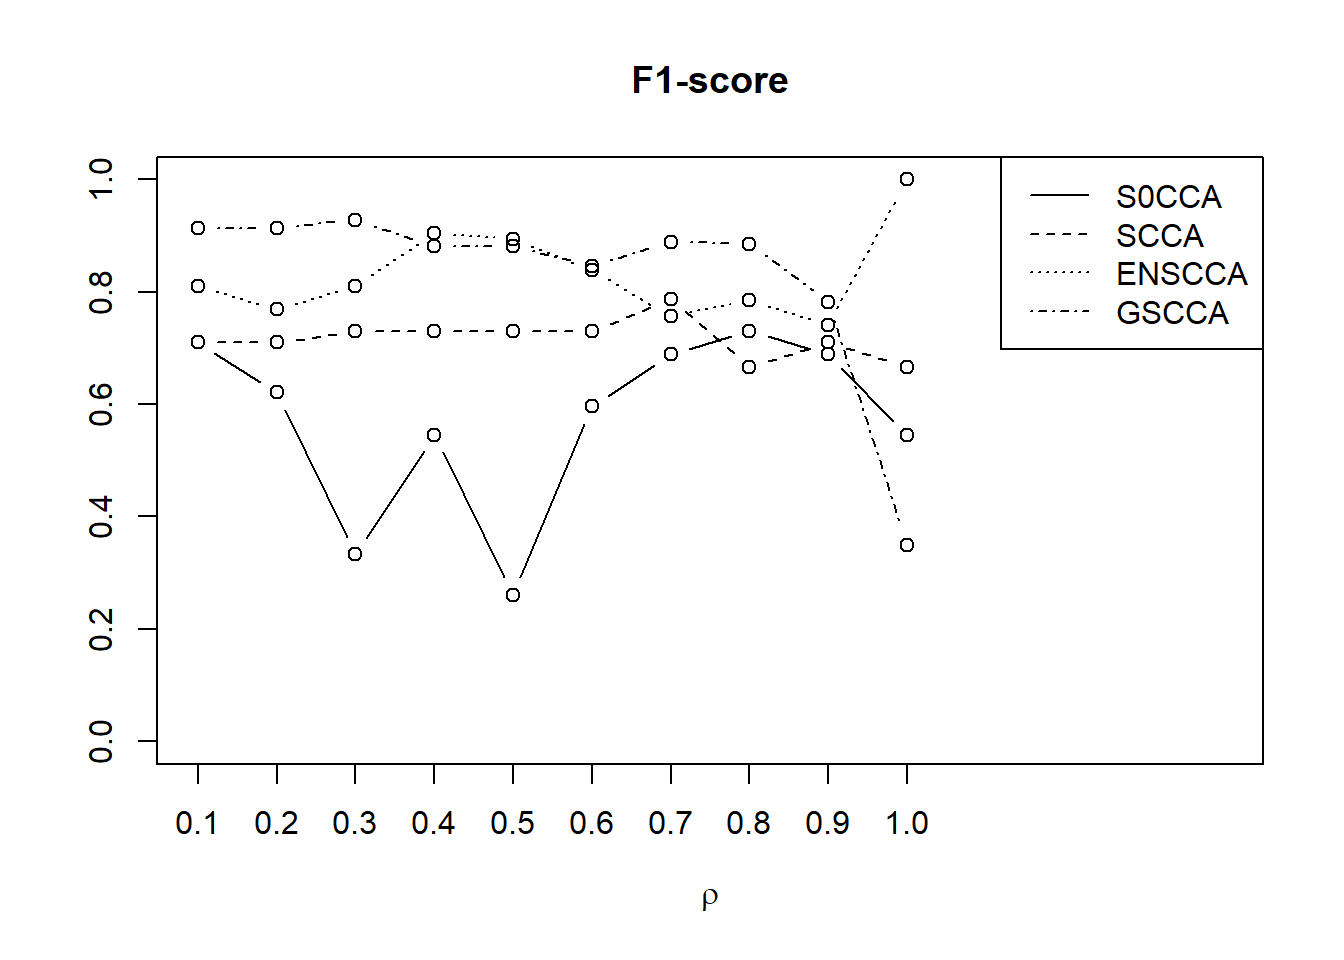
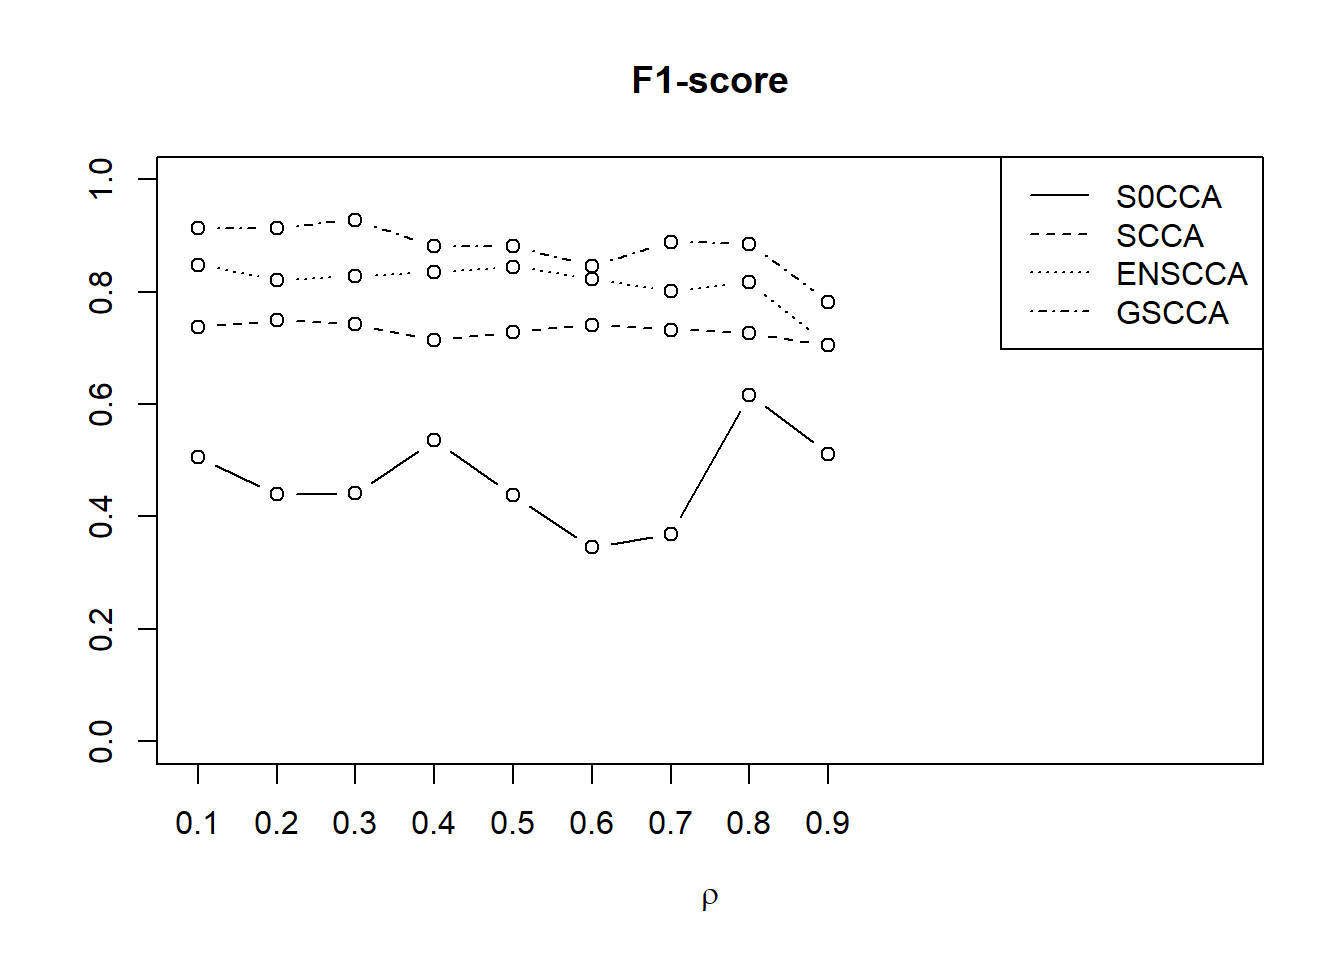
Build site.

diff --git a/docs/model3.html b/docs/model3.html
@@ -322,7 +322,7 @@ shared across the workflowr files. -->
 <p><strong>Last updated:</strong> 2017-12-29</p>
 <!-- Insert the code version (Git commit SHA1) if Git repository exists and R
  package git2r is installed -->
-<p><strong>Code version:</strong> 2881b68</p>
+<p><strong>Code version:</strong> 7d212ec</p>
 <!-- Add your analysis here -->
 <p>Model 3 examines the effect of auto-regressive correlation.</p>
 <pre class="r"><code>library(scca)
@@ -330,7 +330,7 @@ u=c(rep(1,10),rep(-1,10),rep(0,80))
 v=c(rep(c(1,0.2),5),rep(c(-1,-0.2),5),rep(0,80))
 edges=c(as.numeric(combn(1:10,2)),as.numeric(combn(11:20,2)),21:100)
 
-rholist=seq(0.1,1,length.out = 10)
+rholist=seq(0.1,0.9,length.out = 9)
 model3S0=c()
 model3S1=c()
 model3elnet=c()
@@ -338,9 +338,9 @@ model3gscca=c()
 for(rho in 1:length(rholist)){
   sigma_x=arcov(rholist[rho],100)
   sigma_y=sigma_x
-  model3S0=rbind(model3S0,finals(s0cca_simu(1,u,v,50,&#39;normal&#39;,1,sigma_x,sigma_y)))
-  model3S1=rbind(model3S1,finals(s1cca_simu(1,u,v,50,&#39;normal&#39;,1,sigma_x,sigma_y)))
-  model3elnet=rbind(model3elnet,finals(elnet.cca.simu(1,u,v,50,&#39;normal&#39;,1,sigma_x,sigma_y)))
+  model3S0=rbind(model3S0,finals(s0cca_simu(10,u,v,50,&#39;normal&#39;,1,sigma_x,sigma_y)))
+  model3S1=rbind(model3S1,finals(s1cca_simu(10,u,v,50,&#39;normal&#39;,1,sigma_x,sigma_y)))
+  model3elnet=rbind(model3elnet,finals(elnet.cca.simu(10,u,v,50,&#39;normal&#39;,1,sigma_x,sigma_y)))
   model3gscca=rbind(model3gscca,finals(gscca.simu.normal(10,edges,u,v,50,&#39;normal&#39;,1,sigma_x,sigma_y,plain=F,gamma.u = 2.12,gamma.v = 2.12)))
 }
 
